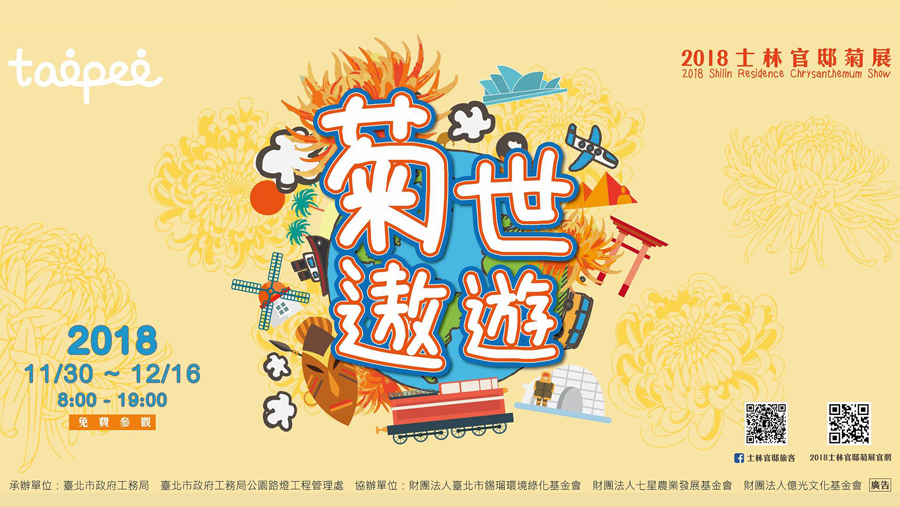
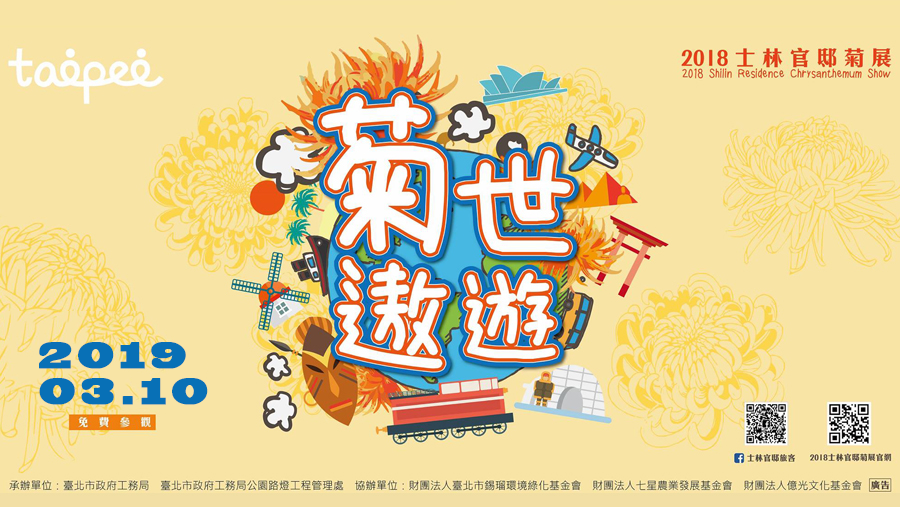
1.更改前兩張圖片的日期 2.所有網頁上的日期

Changed region(s): [[0.0, 0.5917, 0.2489, 0.8284]]

diff --git a/taipei.html b/taipei.html
@@ -29,8 +29,8 @@
           <div class="box">
             <a class="image fit"><img src="images/new-active/A1.png" alt=""/></a>
             <div class="inner">
-              <h3>2018&nbsp;士林官邸菊展</h3>
-              <h5>2018.12.16&nbsp;&nbsp;&nbsp;臺北市士林區士林官邸公園</h5>
+              <h3>2019&nbsp;士林官邸菊展</h3>
+              <h5>2019.03.10&nbsp;&nbsp;&nbsp;臺北市士林區士林官邸公園</h5>
               <p id="active1">
                   士林官邸菊展為臺北秋季最大菊花展，適合親子同樂的益智競答活動。
               </p>
@@ -45,7 +45,7 @@
             <a class="image fit"><img src="images/new-active/A2.png" alt=""/></a>
             <div class="inner">
               <h3>逆旅之域&nbsp;The Flying Land</h3>
-              <h5>2018.12.17&nbsp;&nbsp;&nbsp;忠泰美術館</h5>
+              <h5>2019.03.13&nbsp;&nbsp;&nbsp;忠泰美術館</h5>
               <p id="active2">
                   公園處與忠泰美術館共同邀請民眾至瑠公圳公園親自欣賞作品《大砲花瓶》，體驗引人深思的藝術作品。
               </p>
@@ -63,7 +63,7 @@
             <a class="image fit"><img src="images/new-active/A3.png" alt=""/></a>
             <div class="inner">
               <h3>《Untitled》亞洲首個展</h3>
-              <h5>2018.12.18&nbsp;&nbsp;&nbsp;臺北市大安區仁愛路四段25-1號9樓</h5>
+              <h5>2019.03.18&nbsp;&nbsp;&nbsp;臺北市大安區仁愛路四段25-1號9樓</h5>
               <p id="active3">
                   Bluerider ART的亞洲首個展’Untitled’，分別呈現了Isabella Kohlhuber在不同媒材上展現獨特的敘事邏輯。
               </p>
@@ -81,7 +81,7 @@
             <a class="image fit"><img src="images/new-active/A4.png" alt=""/></a>
             <div class="inner">
               <h3>「土絡天地海」草山聯合創作展</h3>
-              <h5>2018.12.20&nbsp;&nbsp;&nbsp;臺北市士林區凱旋路27號</h5>
+              <h5>2019.04.02&nbsp;&nbsp;&nbsp;臺北市士林區凱旋路27號</h5>
               <p id="active4">
                   URS27M郊山友台是唯一一處位於陽明山的都市再生基地，基地以推廣郊山生活美學的使命。
               </p>
@@ -99,7 +99,7 @@
             <a class="image fit"><img src="images/new-active/A5.png" alt=""/></a>
             <div class="inner">
               <h3>「寂之守」陳秀雯創作個展</h3>
-              <h5>2018.12.21&nbsp;&nbsp;&nbsp;臺北市中山區中山北路二段39巷3號B2</h5>
+              <h5>2019.04.11&nbsp;&nbsp;&nbsp;臺北市中山區中山北路二段39巷3號B2</h5>
               <p id="active5">
                 「寂の守」沉默的守護者，陳秀雯創作以來一直以沉靜的畫面，但炙熱並略帶焦慮的情感在傳達她畫面中的議題。
               </p>
@@ -117,7 +117,7 @@
             <a class="image fit"><img src="images/new-active/A6.png" alt=""/></a>
             <div class="inner">
               <h3>Long Time No Sebiro 好久不見穿西裝了你</h3>
-              <h5>2018.12.23&nbsp;&nbsp;&nbsp;臺北市大同區南京西路241號 米凱樂啤酒吧</h5>
+              <h5>2019.05.02&nbsp;&nbsp;&nbsp;臺北市大同區南京西路241號 米凱樂啤酒吧</h5>
               <p id="active6">
                 臺北馬拉松吸引來自全球與國內路跑菁英齊聚一堂，儼然已為臺灣年度最具指標性與壓軸馬拉松賽事。
               </p>
